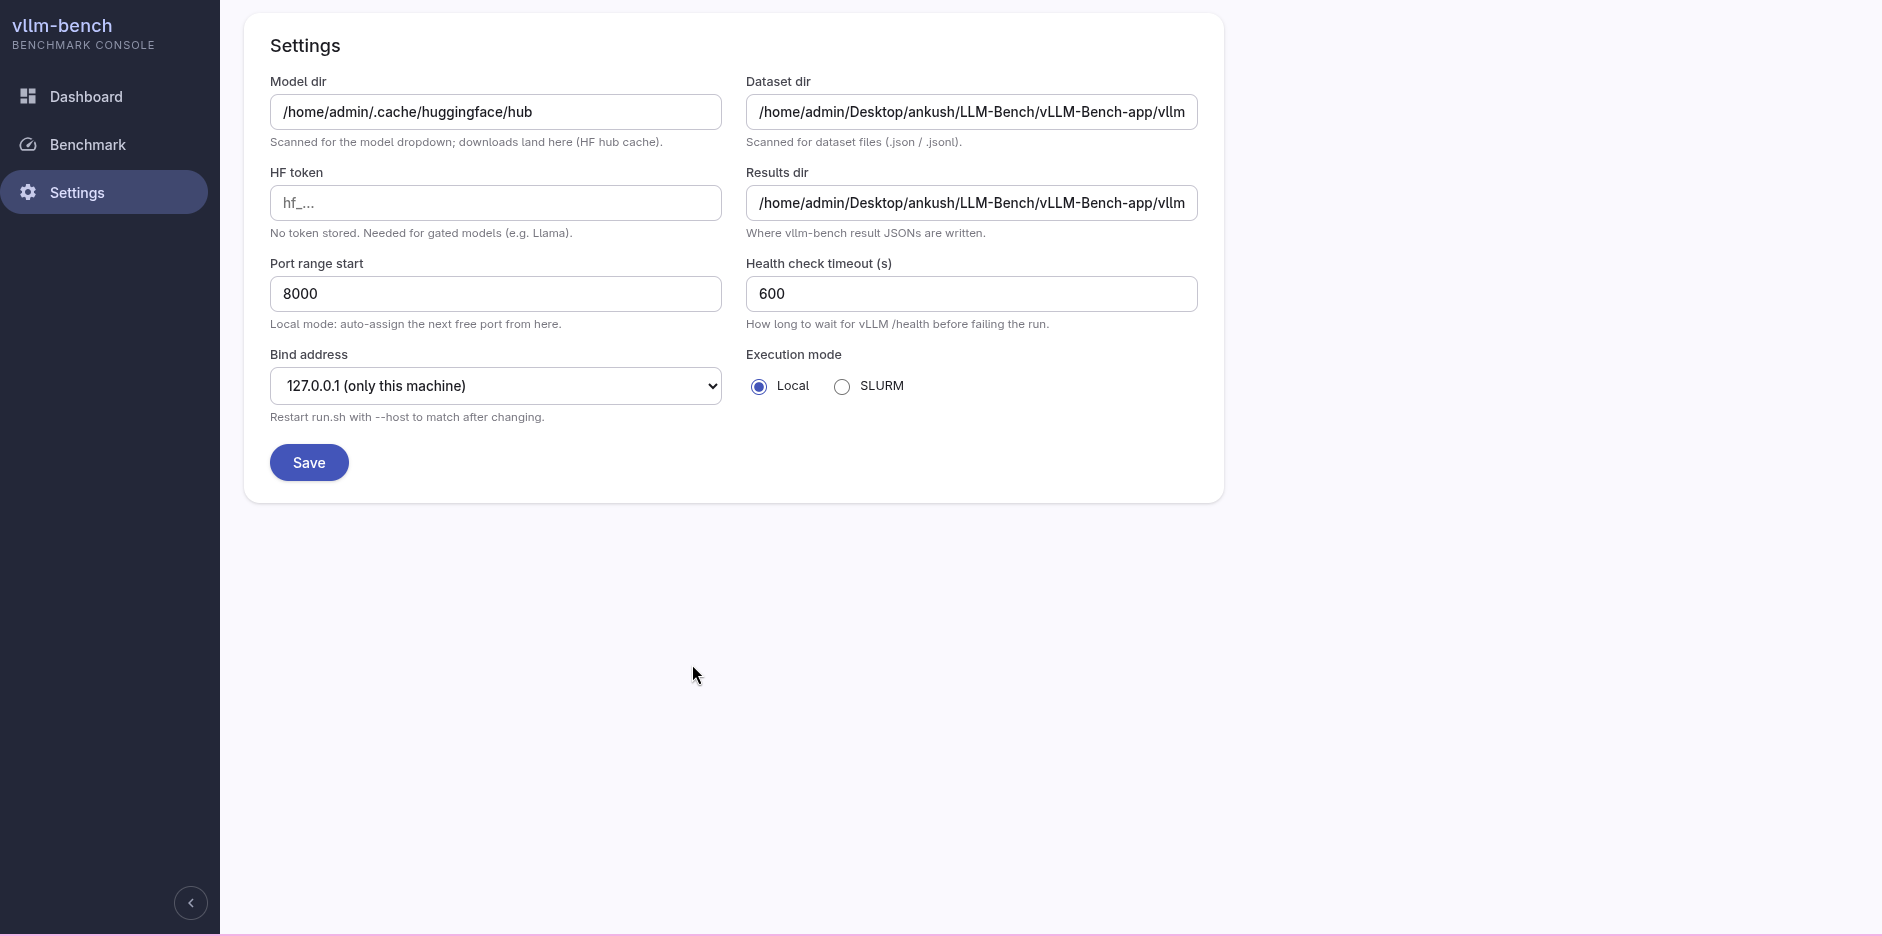
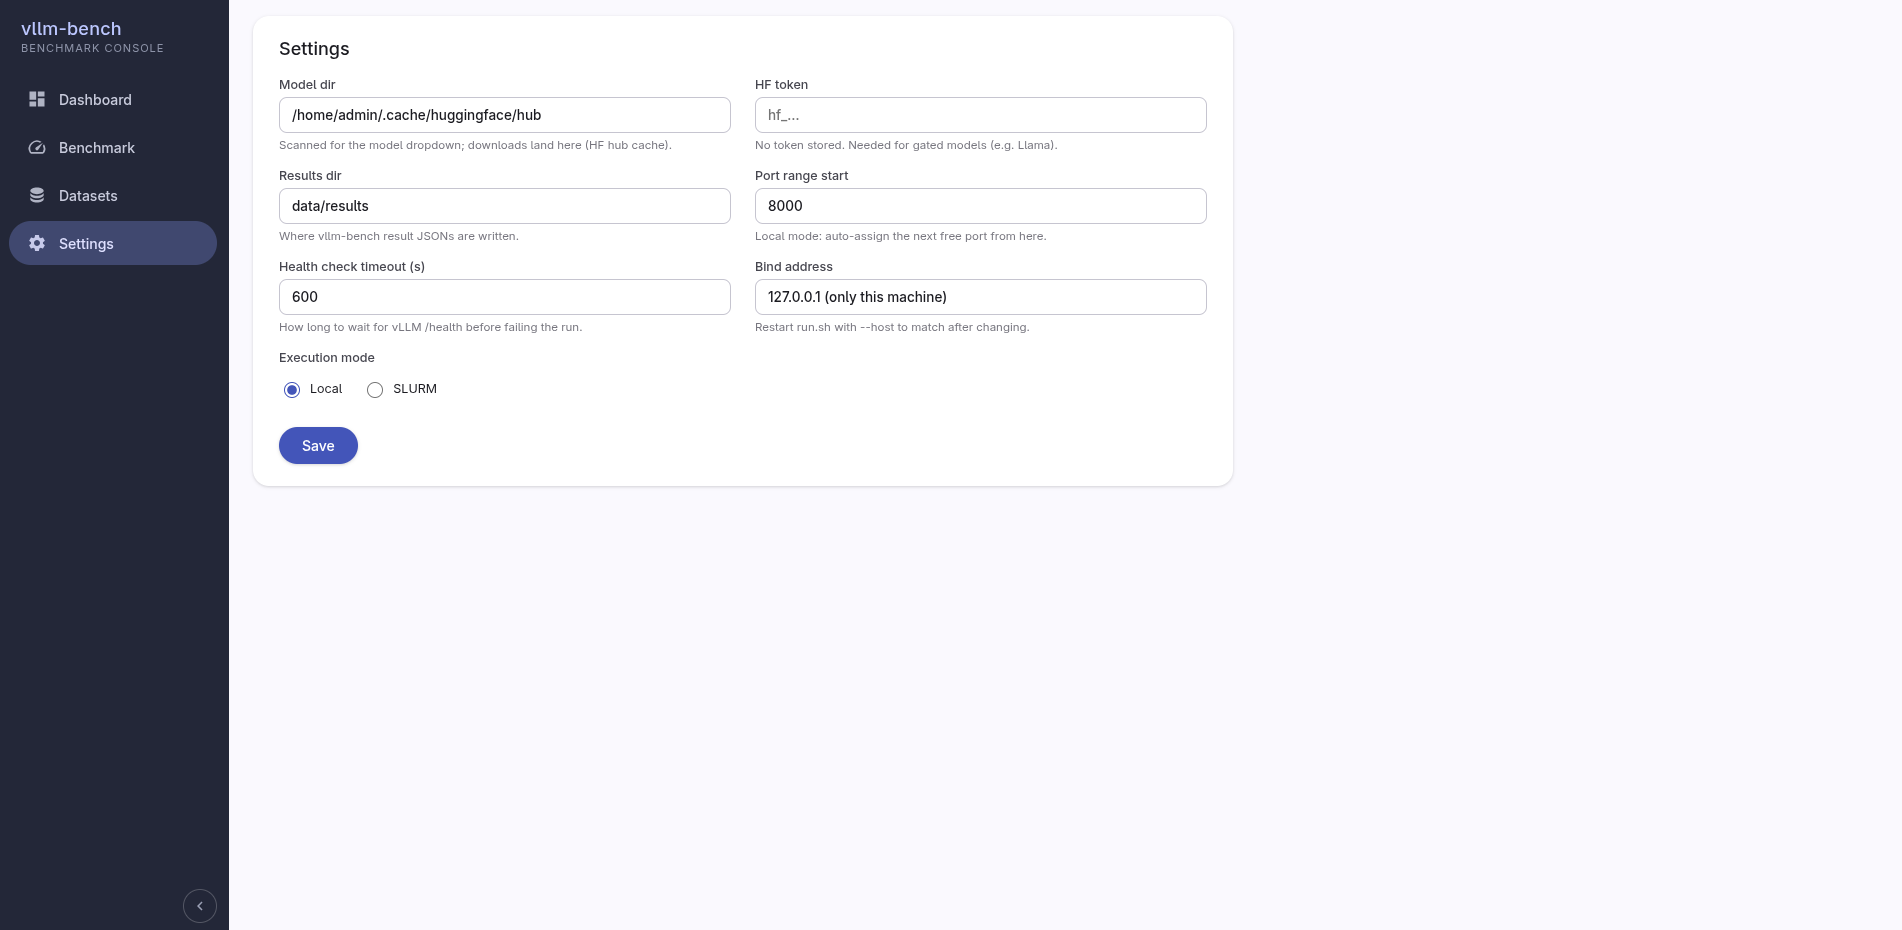
readme-added

diff --git a/README.md b/README.md
@@ -11,11 +11,14 @@ usage instructions.
 
 ## Screenshots
 
-### Dashboard
-![Dashboard](images/dashboard.png)
+### Dashboard-Charts
+![Dashboard](images/dashboard-charts.png)
+
+### Dashboard-Table
+![Dashboard](images/dashboard-table.png)
 
 ### Benchmark
-![Benchmark](images/benchmark.png)
+![Dashboard](images/benchmark.png)
 
 ### Settings
-![Settings](images/settings.png)
+![Dashboard](images/settings.png)